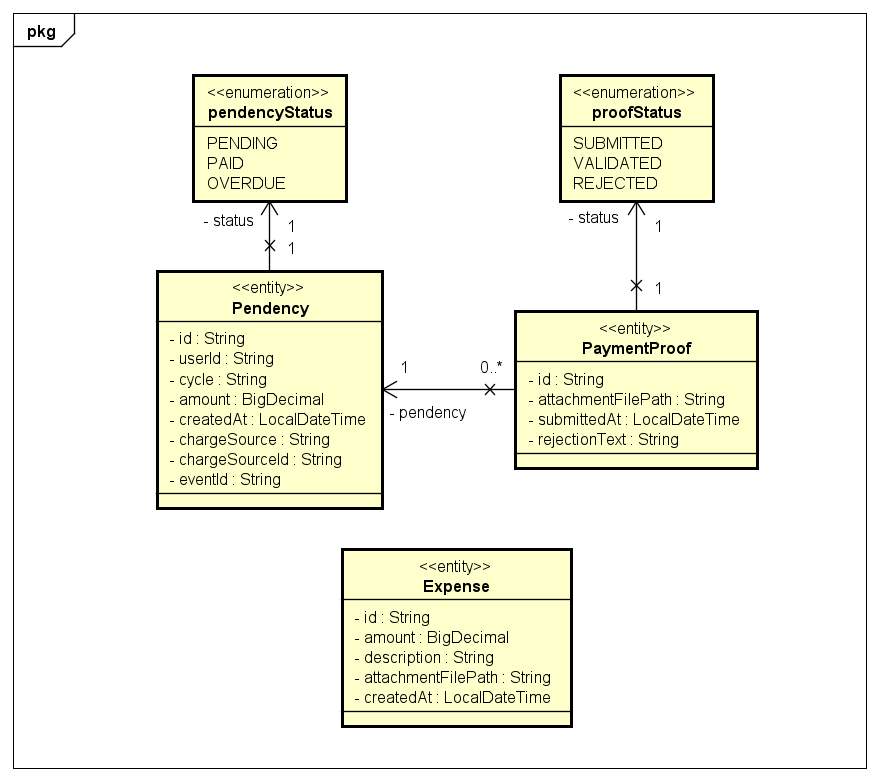
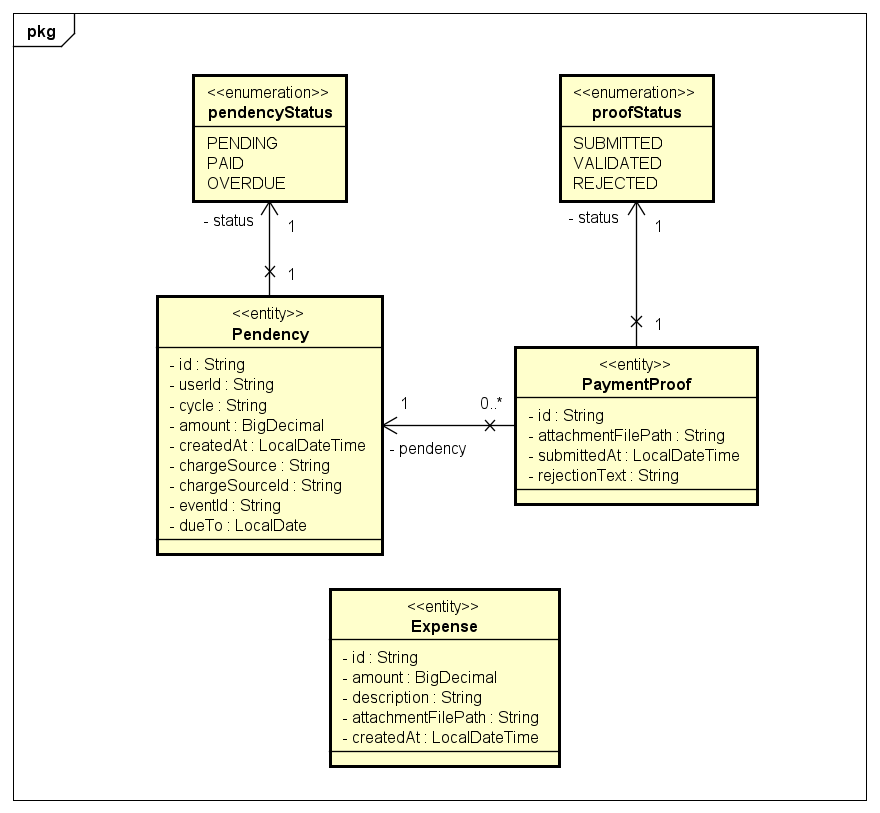
feature (prazos) - Adicionada data de prazo para Pendências. Outras melhorias menores diversas.

diff --git a/src/main/java/com/facoffee/financeService/entities/Pendency.java b/src/main/java/com/facoffee/financeService/entities/Pendency.java
@@ -3,6 +3,7 @@ package com.facoffee.financeService.entities;
 import jakarta.persistence.*;
 
 import java.math.BigDecimal;
+import java.time.LocalDate;
 import java.time.LocalDateTime;
 import java.util.ArrayList;
 import java.util.List;
@@ -32,17 +33,20 @@ public class Pendency {
     @Column(name = "created_at", nullable = false)
     private LocalDateTime createdAt;
 
-    @Column(name = "charge_source")
+    @Column(name = "charge_source", nullable = false)
     private String chargeSource;
 
-    @Column(name = "charge_source_id")
+    @Column(name = "charge_source_id",  nullable = false)
     private String chargeSourceId;
 
     @OneToMany(mappedBy = "pendency", cascade = CascadeType.ALL, fetch = FetchType.LAZY)
     private List<PaymentProof> proofs = new ArrayList<>();
 
-    @Column(nullable = false)
+    @Column(name = "event_id", nullable = false)
     private String eventId;
+
+    @Column(name = "due_to", nullable = false)
+    private LocalDate dueTo;
 
     public Pendency() {
         this.status = PendencyStatus.PENDING;
